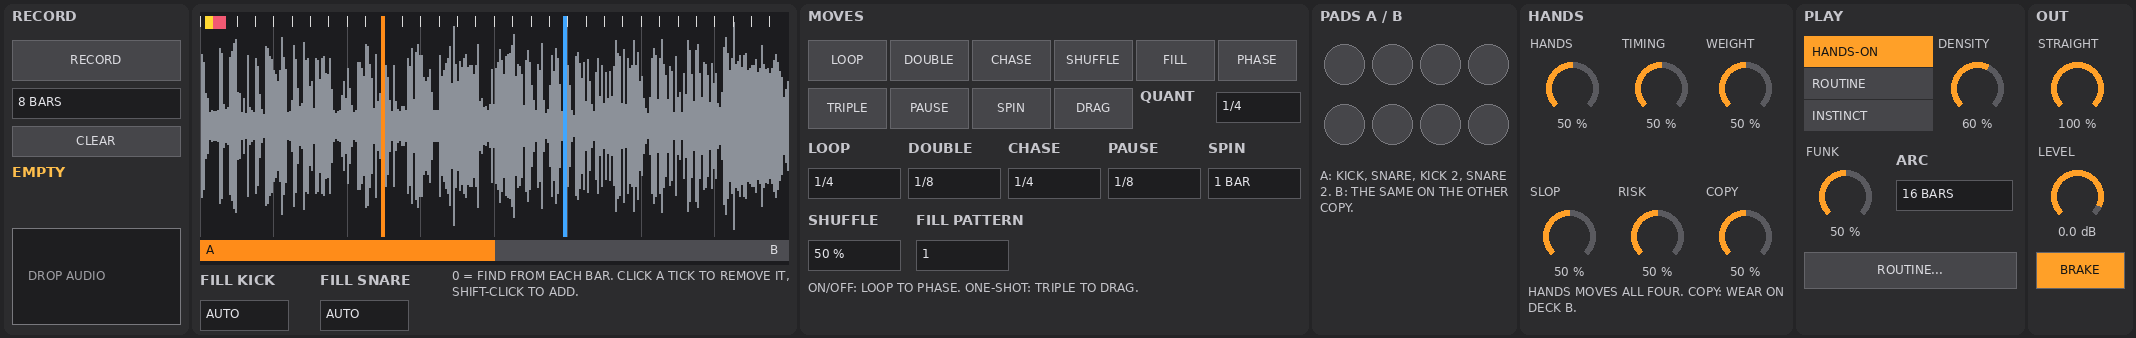
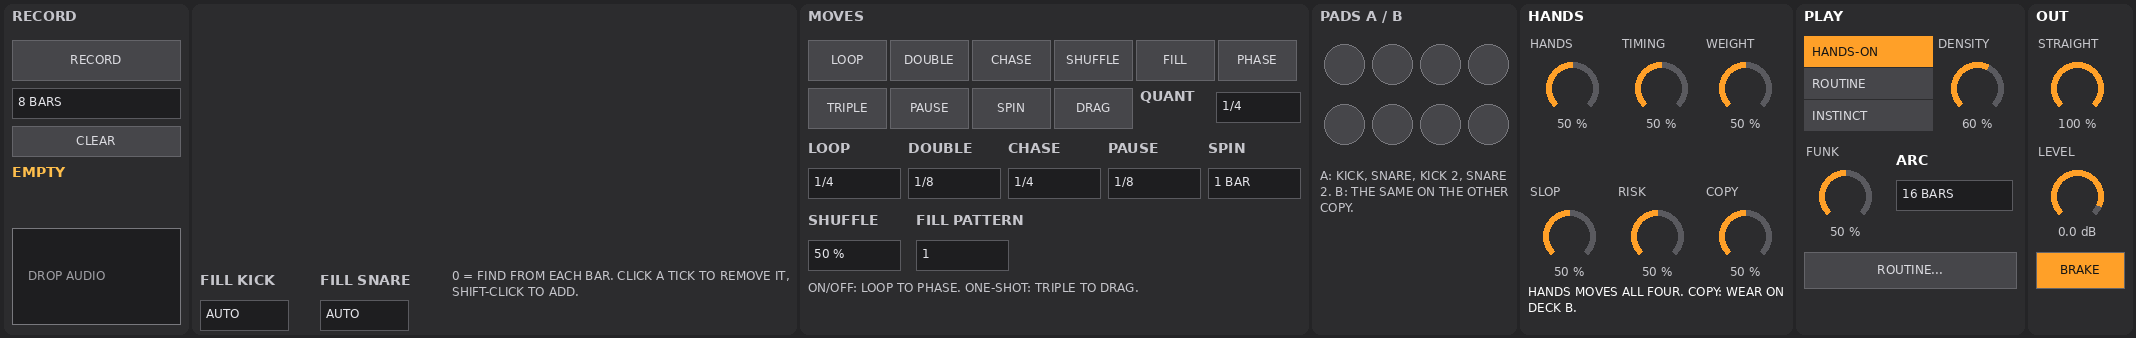
Doubles: white label and dial text in HANDS, PLAY and OUT
Claude-Session: https://claude.ai/code/session_011Dr4cjVVWzE8EDnQNjWY5G

diff --git a/Doubles/tools/build_device.py b/Doubles/tools/build_device.py
@@ -141,16 +141,21 @@ def wire(bid, name, outlet=0):
     return pre
 
 
+GREY, WHITE = [0.78, 0.78, 0.8, 1.0], [1.0, 1.0, 1.0, 1.0]
+TEXTCOL = [GREY]   # label and dial-name colour for the section being built
+
+
 def label(text, pres, w=None):
     return box("comment", [px[0], 560, 80, 18], text=text, nin=1, nout=0, pres=pres,
-               textcolor=[0.78, 0.78, 0.8, 1.0], **FONT)
+               textcolor=TEXTCOL[0], **FONT)
 
 
 def dial(name, long, short, pres, lo, hi, init, unit=1, ptype=0, **kw):
     v = valueof(long, short, ptype, parameter_mmin=float(lo), parameter_mmax=float(hi),
                 parameter_initial=[init], parameter_initial_enable=1, parameter_unitstyle=unit)
     b = box("live.dial", [px[0], 500, 41, 48], nin=1, nout=2, otype=["", "float"], pres=pres,
-            parameter_enable=1, saved_attribute_attributes=v, varname=long, **kw)
+            parameter_enable=1, saved_attribute_attributes=v, varname=long,
+            **dict({"textcolor": TEXTCOL[0]} if TEXTCOL[0] is WHITE else {}, **kw))
     param(b, long, short)
     wire(b, name)
     return b
@@ -262,7 +267,8 @@ for i in range(8):
     button("pad%d" % (i + 1), "Pad %d" % (i + 1), "Pad %d" % (i + 1), [662 + c * 24, 22 + r * 30, 20, 20])
 label("A: KICK, SNARE, KICK 2, SNARE 2.  B: THE SAME ON THE OTHER COPY.", [660, 84, 96, 60])
 
-# HANDS
+# HANDS, PLAY and OUT: white text (Hardy, 2026-11-22)
+TEXTCOL[0] = WHITE
 label("HANDS", [764, 4, 60, 14])
 hands = dial("hands", "Hands", "HANDS", [764, 18, 44, 48], 0, 100, 50, unit=5)
 dials = {}
@@ -299,6 +305,8 @@ label("OUT", [1018, 4, 40, 14])
 dial("straight", "Straight Level", "STRAIGHT", [1018, 18, 41, 48], 0, 100, 100, unit=5)
 dial("level", "Level", "LEVEL", [1018, 72, 41, 48], -70, 6, 0, unit=4)
 toggle("brake", "Brake", "BRAKE", "BRAKE", [1018, 126, 44, 18], init=1)
+
+TEXTCOL[0] = GREY
 
 # ROUTINE window: a subpatcher with the 16 slots
 sub_boxes, sub_lines = [], []
